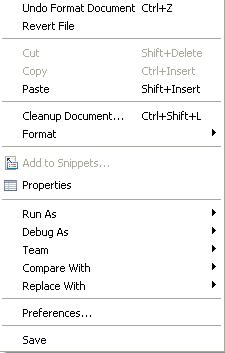
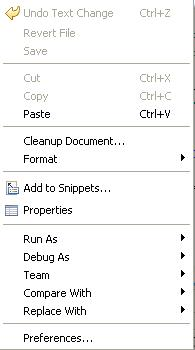
updates to scenarios for WTP RC1

diff --git a/development/TVTScenarios/TVTSSEDTD001.html b/development/TVTScenarios/TVTSSEDTD001.html
@@ -46,6 +46,7 @@
 	<li>Verify all menu items.<br />
 	<img src="images/jseditor04.JPG" /></li>
 	<!-- Common source editor strings begin -->
+<!-- Commenting out because function was temporarily removed
 	<li>In the Outline view, expand all nodes and selecting each one,
 	verify context menu. Some of the items include:
 	<ul>
@@ -57,6 +58,7 @@
 		<li>Add Group to Content Model</li>
 	</ul>
 	<img src="images/dtdeditor03.JPG" /></li>
+-->	
 	<li>In the Outline view, hover over toolbar items and verify:
 	<ul>
 		<li>Sort items alphabetically</li>

diff --git a/development/TVTScenarios/TVTSSEXML001.html b/development/TVTScenarios/TVTSSEXML001.html
@@ -44,10 +44,11 @@
 		<li>Paste</li>
 		<li>Cleanup Document...</li>
 		<li>Format (and its submenu)</li>
+		<li>Add to Snippets...</li>
 		<li>Properties</li>
 	</ul>
 	Note: Other menu items are covered by IES.<br />
-	<img src="images/xmleditor01.JPG" /></li>
+	<img src="images/htmleditor01.JPG" /></li>
 	<!-- Common source editor strings end -->
 	<li>Select Cleanup Document...</li>
 	<li>Verify the Cleanup dialog that appears.<br />

diff --git a/development/TVTScenarios/TVTSSECSS002.html b/development/TVTScenarios/TVTSSECSS002.html
@@ -14,7 +14,7 @@
 	Sheet.<br />
 	<img src="images/newcss01.JPG" /></li>
 	<li>Click the Next button</li>
-	<li>Verify the following in the New JavaServer Page dialog:
+	<li>Verify the following in the New Cascading Style Sheet dialog:
 	<ul>
 		<li>New Cascading Style Sheet</li>
 		<li>Cascading Style Sheet</li>
